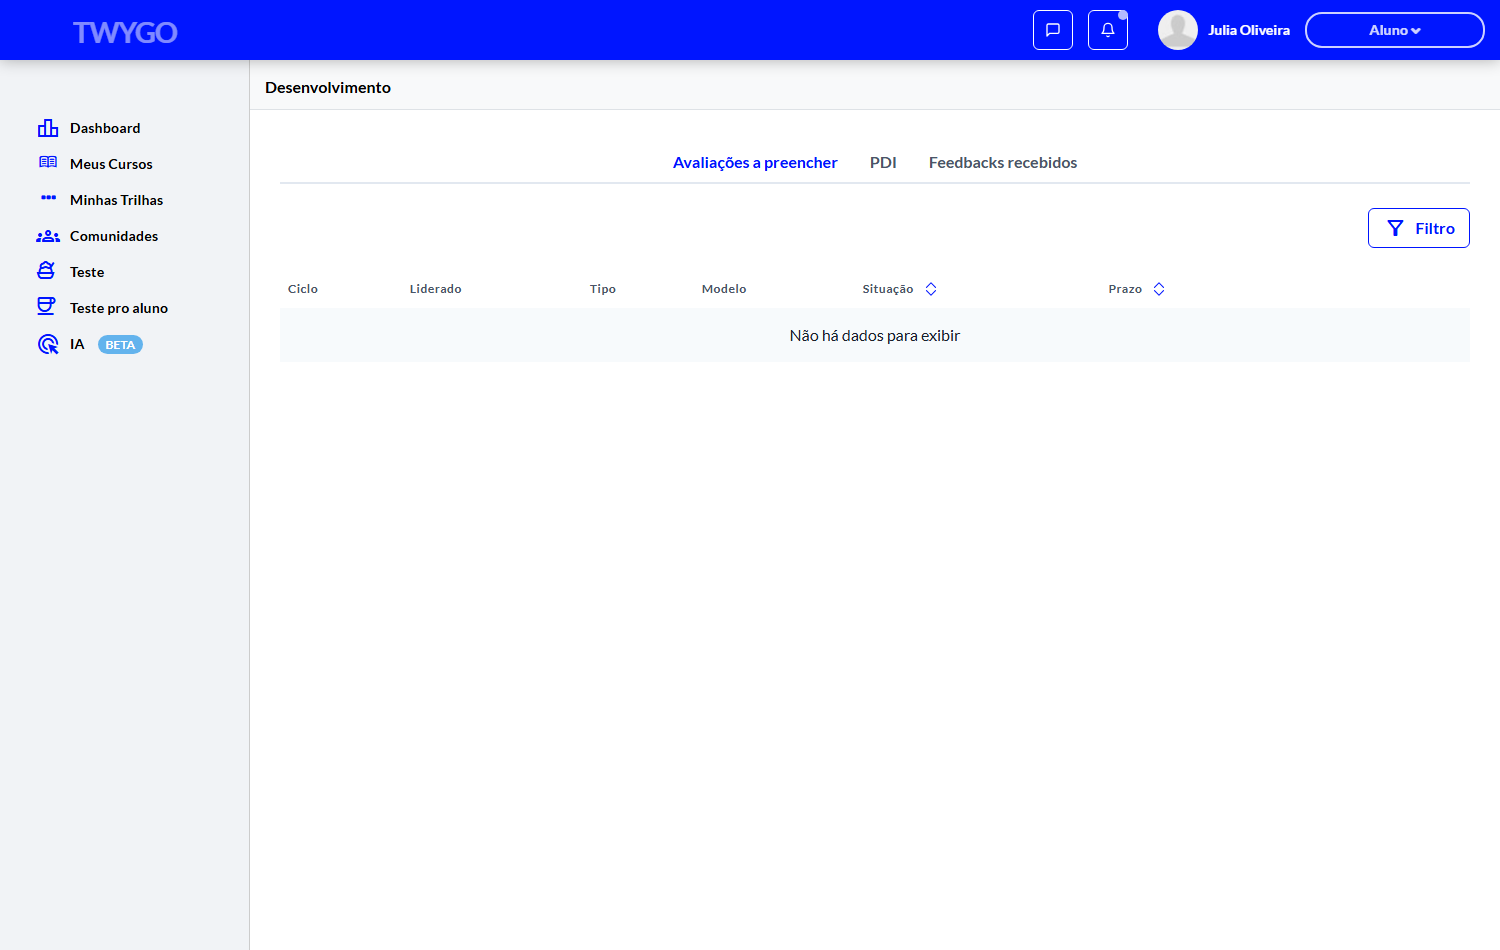
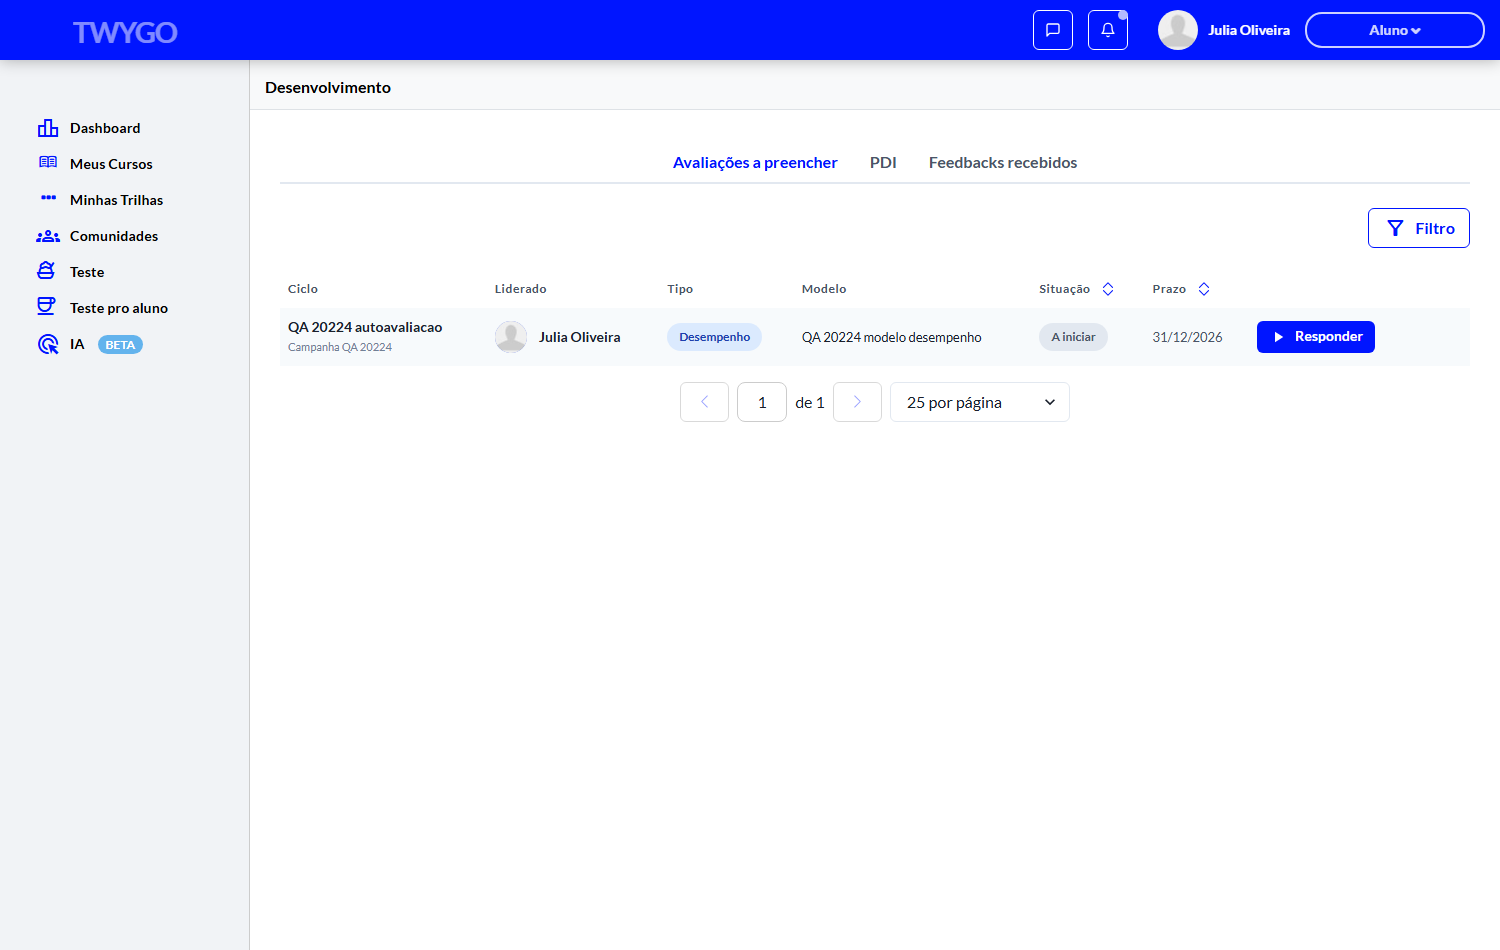
evidencias(responder_avaliacao_20224): player de Desempenho exibe estilo antigo; player de Competencias (alvo do PR) nao verificavel no 36675
- Cheguei na tela Responder avaliacao do player de DESEMPENHO (/performance_assessments/263): avaliado no subtitulo estilo antigo (igual BUG-28), sem banner
- PR #10751 mira o player de COMPETENCIAS (componente assessment-player), que nao pode ser provisionado no 36675 (sem competencias definidas; ciclo ativo nao editavel)
- Pendente: confirmar em qual player o BUG-28 foi capturado + verificar no env com dados reais

diff --git a/scripts/prov_20224_ciclo_competencia.py b/scripts/prov_20224_ciclo_competencia.py
@@ -1,0 +1,75 @@
+"""20224: ciclo+campanha de COMPETENCIAS com Julia (autoavaliacao)."""
+import sys, re
+from pathlib import Path
+sys.path.insert(0, str(Path(__file__).resolve().parent))
+import _twygo as tw
+
+PASTA = tw.ROOT / "evidencias" / "responder_avaliacao_20224"
+c = tw.cfg("")
+MODELO = "QA 20224 modelo competencias"
+
+with tw.sync_playwright() as p:
+    browser, ctx, page = tw.nova_pagina(p)
+    tw.login(page, c)
+
+    # ===== CICLO =====
+    page.goto(f"{c['base_url']}/o/{c['org_id']}/cycles/new", wait_until="domcontentloaded", timeout=30000)
+    page.wait_for_timeout(3000); tw.dispensar_nps(page)
+    page.locator('[data-test-id="cycle-form-name-input"]').fill("QA 20224 competencias")
+    d = page.locator("input[type=date]")
+    d.nth(0).fill("2026-06-19"); d.nth(1).fill("2026-12-31")
+    page.locator('[data-test-id="cycle-form-tab-evaluations"]').click(); page.wait_for_timeout(1200)
+    page.locator('[data-test-id="cycle-form-evaluation-card-competency"]').first.click(); page.wait_for_timeout(1200)
+    # selecionar modelo de competencia
+    page.get_by_text("Selecionar modelo", exact=True).last.click(); page.wait_for_timeout(1000)
+    tw.snap(page, PASTA, "22-ciclo-comp-modelo-dropdown")
+    page.get_by_text(MODELO, exact=False).first.click(timeout=5000); page.wait_for_timeout(800)
+    print("modelo competencia selecionado")
+    # Etapas
+    page.locator('[data-test-id="cycle-form-tab-stages"]').click(); page.wait_for_timeout(1200)
+    page.get_by_text("Auto-avaliação", exact=True).first.click(force=True); page.wait_for_timeout(800)
+    page.get_by_text("Cálculo automático ponderado", exact=True).first.click(force=True); page.wait_for_timeout(800)
+    page.get_by_role("button", name=re.compile("Salvar e programar", re.I)).first.click()
+    page.wait_for_timeout(3500)
+    print("URL pos-ciclo:", page.url)
+    print("TOAST ciclo:", page.evaluate(r"""()=>[...new Set(Array.from(document.querySelectorAll('[role=alert],.chakra-toast,[class*=toast]')).map(e=>(e.innerText||'').replace(/\s+/g,' ').trim()).filter(Boolean))].slice(0,4)"""))
+    m = re.search(r"/cycles/(\d+)", page.url)
+    cid = m.group(1) if m else None
+    print("CICLO ID:", cid)
+    tw.snap(page, PASTA, "22b-ciclo-comp-criado")
+
+    if cid:
+        # ===== CAMPANHA =====
+        page.goto(f"{c['base_url']}/o/{c['org_id']}/cycles/{cid}/campaigns/new", wait_until="domcontentloaded", timeout=25000)
+        page.wait_for_timeout(3000); tw.dispensar_nps(page)
+        page.locator('[data-test-id="campaign-form-name-input"]').fill("Campanha QA 20224 comp")
+        # tipo competencia
+        tipo = page.locator('[data-test-id="campaign-form-evaluation-type-competency"]')
+        if tipo.count(): tipo.click(); print("tipo competency marcado")
+        else:
+            tids = page.evaluate(r"""()=>Array.from(document.querySelectorAll('[data-test-id]')).map(e=>e.getAttribute('data-test-id')).filter(t=>/evaluation-type/i.test(t))""")
+            print("tipos disponiveis:", [*dict.fromkeys(tids)])
+        page.wait_for_timeout(500)
+        # cronograma
+        page.locator('[data-test-id="campaign-form-tab-schedule"]').click(); page.wait_for_timeout(1200)
+        dts = page.locator("input[type=date]")
+        for i in range(dts.count()):
+            dts.nth(i).fill("2026-06-19" if i % 2 == 0 else "2026-12-31")
+        # participante Julia
+        page.locator('[data-test-id="campaign-form-tab-participants"]').click(); page.wait_for_timeout(1200)
+        page.locator('[data-test-id="campaign-participant-selector-input"]').click(); page.wait_for_timeout(1200)
+        page.get_by_placeholder(re.compile("Pesquise por nome", re.I)).fill("[email redacted]"); page.wait_for_timeout(1800)
+        try:
+            page.locator("div").filter(has_text="[email redacted]").last.locator("input[type=checkbox]").last.check(timeout=4000)
+        except Exception:
+            page.get_by_text("[email redacted]").last.click()
+        page.wait_for_timeout(700)
+        page.get_by_role("button", name=re.compile(r"^Vincular$", re.I)).first.click(); page.wait_for_timeout(1500)
+        page.locator('[data-test-id="campaign-form-submit-button"]').click(timeout=8000)
+        page.wait_for_timeout(3500)
+        print("TOAST campanha:", page.evaluate(r"""()=>[...new Set(Array.from(document.querySelectorAll('[role=alert],.chakra-toast,[class*=toast]')).map(e=>(e.innerText||'').replace(/\s+/g,' ').trim()).filter(Boolean))].slice(0,4)"""))
+        print("URL campanha:", page.url)
+        tw.snap(page, PASTA, "22c-campanha-comp-criada")
+
+    ctx.close(); browser.close()
+print("OK")

diff --git a/scripts/recon_20224_status.py b/scripts/recon_20224_status.py
@@ -1,0 +1,28 @@
+"""20224: status da campanha 189 + acao de iniciar/programar."""
+import sys, re
+from pathlib import Path
+sys.path.insert(0, str(Path(__file__).resolve().parent))
+import _twygo as tw
+
+PASTA = tw.ROOT / "evidencias" / "responder_avaliacao_20224"
+c = tw.cfg("")
+
+with tw.sync_playwright() as p:
+    browser, ctx, page = tw.nova_pagina(p)
+    tw.login(page, c)
+    page.goto(f"{c['base_url']}/o/{c['org_id']}/cycles/174/campaigns", wait_until="domcontentloaded", timeout=25000)
+    page.wait_for_timeout(3500); tw.dispensar_nps(page)
+    tw.snap(page, PASTA, "19-campanhas-lista", full=True)
+    rows = page.evaluate(r"""()=>Array.from(document.querySelectorAll('tr,[role=row]')).map(r=>(r.innerText||'').replace(/\s+/g,' ').trim()).filter(t=>t&&!/Não há dados/.test(t))""")
+    print("LINHAS CAMPANHAS:", rows)
+    # abrir kebab/acoes da campanha
+    btns = page.evaluate(r"""()=>[...new Set(Array.from(document.querySelectorAll('button,a,[role=menuitem]')).map(b=>(b.innerText||'').replace(/\s+/g,' ').trim()).filter(t=>t&&t.length<30))]""")
+    print("BTNS:", btns)
+    # status do ciclo
+    page.goto(f"{c['base_url']}/o/{c['org_id']}/cycles?profile=admin", wait_until="domcontentloaded", timeout=25000)
+    page.wait_for_timeout(3000)
+    crow = page.evaluate(r"""()=>Array.from(document.querySelectorAll('tr,[role=row]')).map(r=>(r.innerText||'').replace(/\s+/g,' ').trim()).filter(t=>/20224|autoavaliacao/i.test(t))""")
+    print("CICLO 174 linha:", crow)
+    tw.snap(page, PASTA, "19b-ciclo-lista")
+    ctx.close(); browser.close()
+print("OK")

diff --git a/scripts/prov_20224_competencia.py b/scripts/prov_20224_competencia.py
@@ -1,0 +1,27 @@
+"""20224: inspecionar edicao do ciclo 174 ativo (da pra adicionar competencias?)."""
+import sys, re
+from pathlib import Path
+sys.path.insert(0, str(Path(__file__).resolve().parent))
+import _twygo as tw
+
+PASTA = tw.ROOT / "evidencias" / "responder_avaliacao_20224"
+c = tw.cfg("")
+
+with tw.sync_playwright() as p:
+    browser, ctx, page = tw.nova_pagina(p)
+    tw.login(page, c)
+    page.goto(f"{c['base_url']}/o/{c['org_id']}/cycles/174/edit", wait_until="domcontentloaded", timeout=25000)
+    page.wait_for_timeout(4000); tw.dispensar_nps(page)
+    print("URL:", page.url)
+    tw.snap(page, PASTA, "21-ciclo174-edit", full=True)
+    info = page.evaluate(r"""()=>{
+        const tids=Array.from(document.querySelectorAll('[data-test-id]')).map(e=>e.getAttribute('data-test-id')).filter(t=>/cycle-form|tab|evaluation|competency/i.test(t));
+        const tabs=[...new Set(Array.from(document.querySelectorAll('[role=tab],button')).map(b=>(b.innerText||'').replace(/\s+/g,' ').trim()).filter(t=>t&&t.length<30))];
+        const body=(document.body.innerText||'').replace(/\n{2,}/g,'\n').slice(0,400);
+        return {tids:[...new Set(tids)].slice(0,25), tabs:tabs.slice(0,20), body};
+    }""")
+    print("DATA-TEST-IDS:", info["tids"])
+    print("TABS/BTNS:", info["tabs"])
+    print("BODY:", info["body"])
+    ctx.close(); browser.close()
+print("OK")